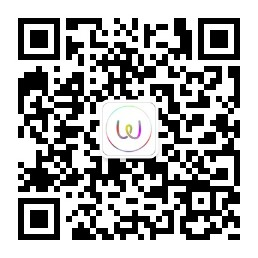
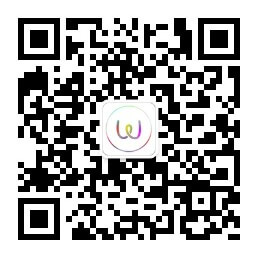
界面修改

diff --git a/public/css/global.css b/public/css/global.css
@@ -369,22 +369,31 @@
 }
 .share-show-content{
     position: absolute;
-    height: 200px;
-    width: 200px;
+    height: 240px;
+    width: 240px;
     border-radius: 20px;
     top:50%;
     left:50%;
-    margin-top: -120px;
-    margin-left: -120px;
+    margin-top: -130px;
+    margin-left: -130px;
     background-color: white;
-    padding:20px;
+    padding:10px;
+    text-align: center;
 }
 .share-text{
     color:#F5BF35;
     letter-spacing: 1px;
-    font-size: 12px;
+    font-size: 15px;
 }
 .share-text:first-child{
     margin-top: 70px;
     margin-bottom: 20px;
 }
+.share-logo{
+    width: 80px;
+    height: 80px;
+    display: block;
+    margin:10px auto;  
+}
+
+.ui-loading-wrap{display:-webkit-box;-webkit-box-pack:center;-webkit-box-align:center;text-align:center;height:40px}.ui-loading{width:20px;height:20px;display:block;background:url(/img/loading_sprite.png);-webkit-background-size:auto 20px;-webkit-animation:am-rotate 1s steps(12) infinite}.ui-loading-bright{width:37px;height:37px;display:block;background-image:url(../img/loading_sprite_white.png);-webkit-background-size:auto 37px;-webkit-animation:am-rotate2 1s steps(12) infinite}.ui-loading-wrap .ui-loading{margin:10px}.ui-loading-block{position:fixed;top:0;left:0;width:100%;height:100%;z-index:9999;display:-webkit-box;-webkit-box-orient:horizontal;-webkit-box-pack:center;-webkit-box-align:center;background:rgba(0,0,0,.4);display:none;background:transparent}.ui-loading-block .ui-loading-cnt{width:130px;height:110px;display:-webkit-box;-webkit-box-orient:vertical;-webkit-box-align:center;text-align:center;background:rgba(0,0,0,.65);border-radius:6px;color:#fff;font-size:16px}.ui-loading-block .ui-loading-bright{margin:18px 0 8px}.ui-loading-block.show{display:-webkit-box;display:box}@-webkit-keyframes am-rotate{from{background-position:0 0}to{background-position:-240px 0}}@-webkit-keyframes am-rotate2{from{background-position:0 0}to{background-position:-444px 0}}

diff --git a/public/js/frozen.js b/public/js/frozen.js
@@ -1,0 +1,1 @@
+!function(a){function b(b){return a.adaptObject(this,d,b,c,e,"loading")}var c='<div class="ui-loading-block show"><div class="ui-loading-cnt"><i class="ui-loading-bright"></i><p><%=content%></p></div></div>',d={content:"加载中..."},e=function(b,c,e){this.element=a(b),this._isFromTpl=e,this.option=a.extend(d,c),this.show()};e.prototype={show:function(){var b=a.Event("loading:show");this.element.trigger(b),this.element.show()},hide:function(){var b=a.Event("loading:hide");this.element.trigger(b),this.element.remove()}},a.fn.loading=a.loading=b}(window.Zepto);
